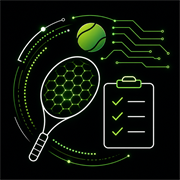
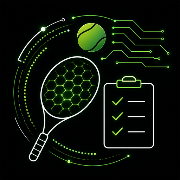
Add GAS record locking and lazy screen loading

diff --git a/docs/index.html b/docs/index.html
@@ -149,7 +149,7 @@ if ('serviceWorker' in navigator) {
 
 		<script src="index.js"></script>
 		<script>
-const GODOT_CONFIG = {"args":[],"canvasResizePolicy":2,"emscriptenPoolSize":8,"ensureCrossOriginIsolationHeaders":true,"executable":"index","experimentalVK":true,"fileSizes":{"index.pck":4823192,"index.wasm":37695054},"focusCanvas":true,"gdextensionLibs":[],"godotPoolSize":4};
+const GODOT_CONFIG = {"args":[],"canvasResizePolicy":2,"emscriptenPoolSize":8,"ensureCrossOriginIsolationHeaders":true,"executable":"index","experimentalVK":true,"fileSizes":{"index.pck":4825640,"index.wasm":37695054},"focusCanvas":true,"gdextensionLibs":[],"godotPoolSize":4};
 const GODOT_THREADS_ENABLED = false;
 const engine = new Engine(GODOT_CONFIG);
 
@@ -255,3 +255,4 @@ const engine = new Engine(GODOT_CONFIG);
 		</script>
 	</body>
 </html>
+

diff --git a/docs/sw.js b/docs/sw.js
@@ -1,4 +1,4 @@
-const CACHE_NAME = 'wro-robosports-assist-v20260523-12';
+const CACHE_NAME = 'wro-robosports-assist-v20260524-13';
 
 const APP_SHELL = [
 	'./',